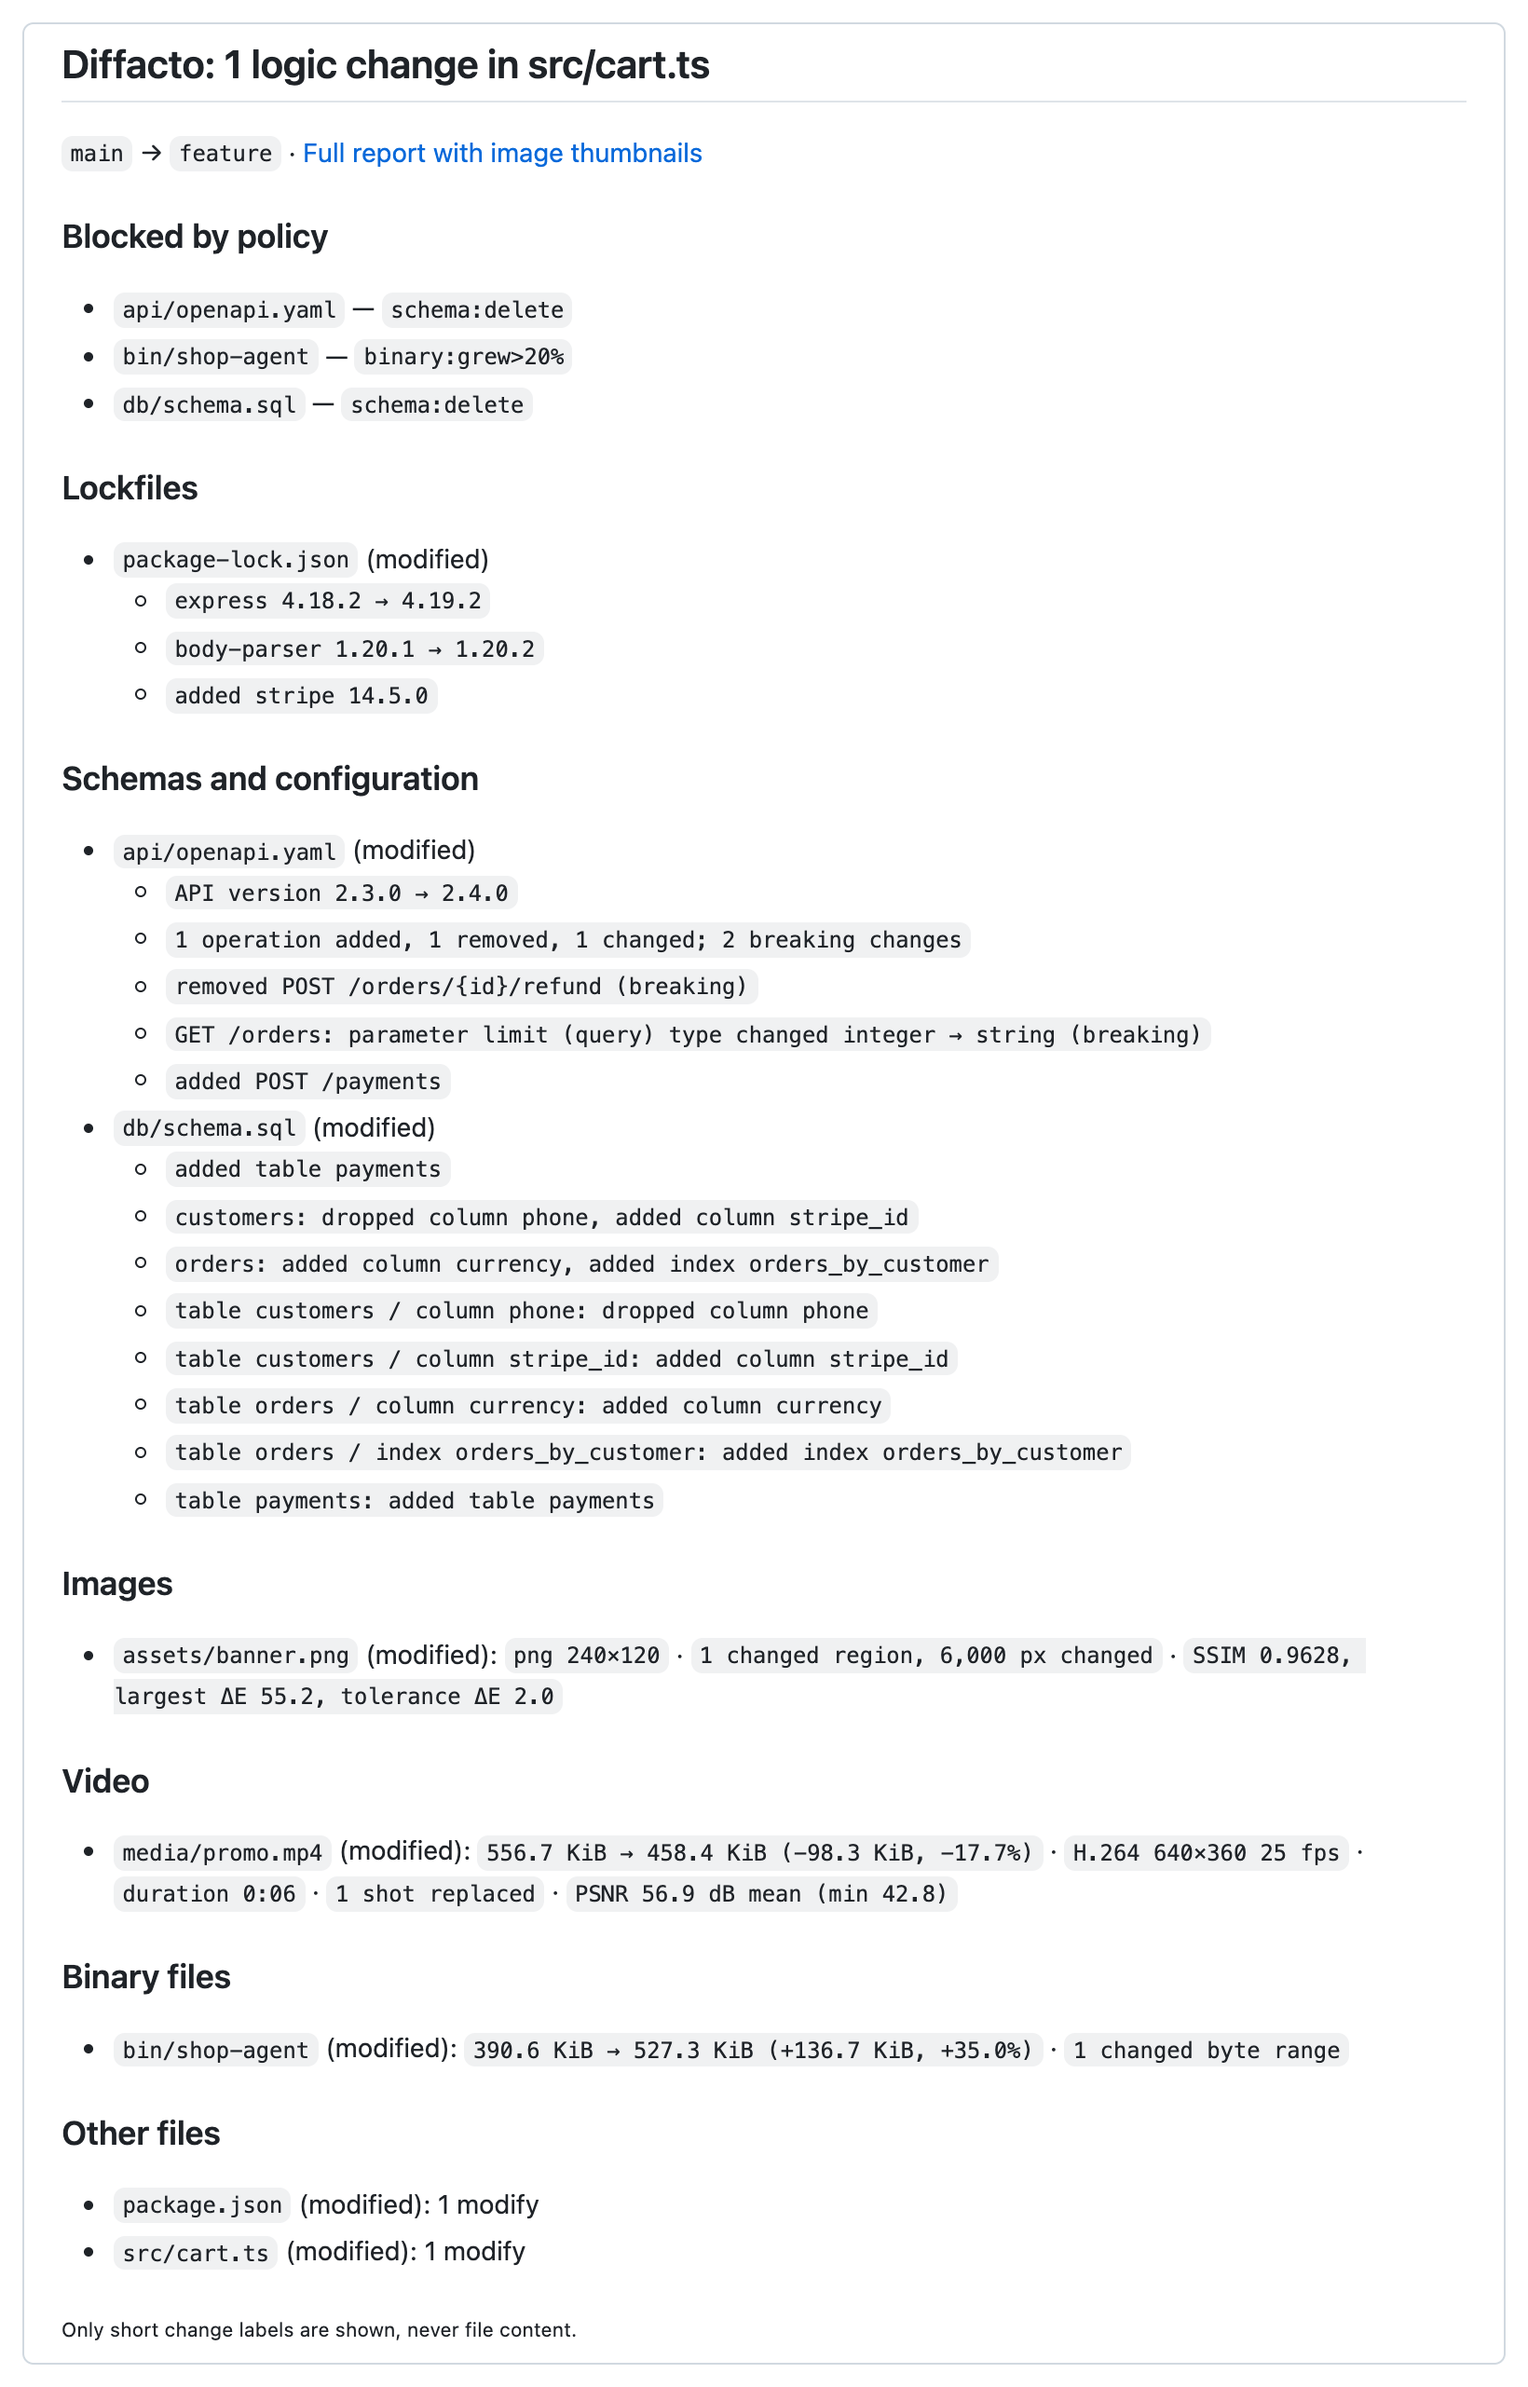
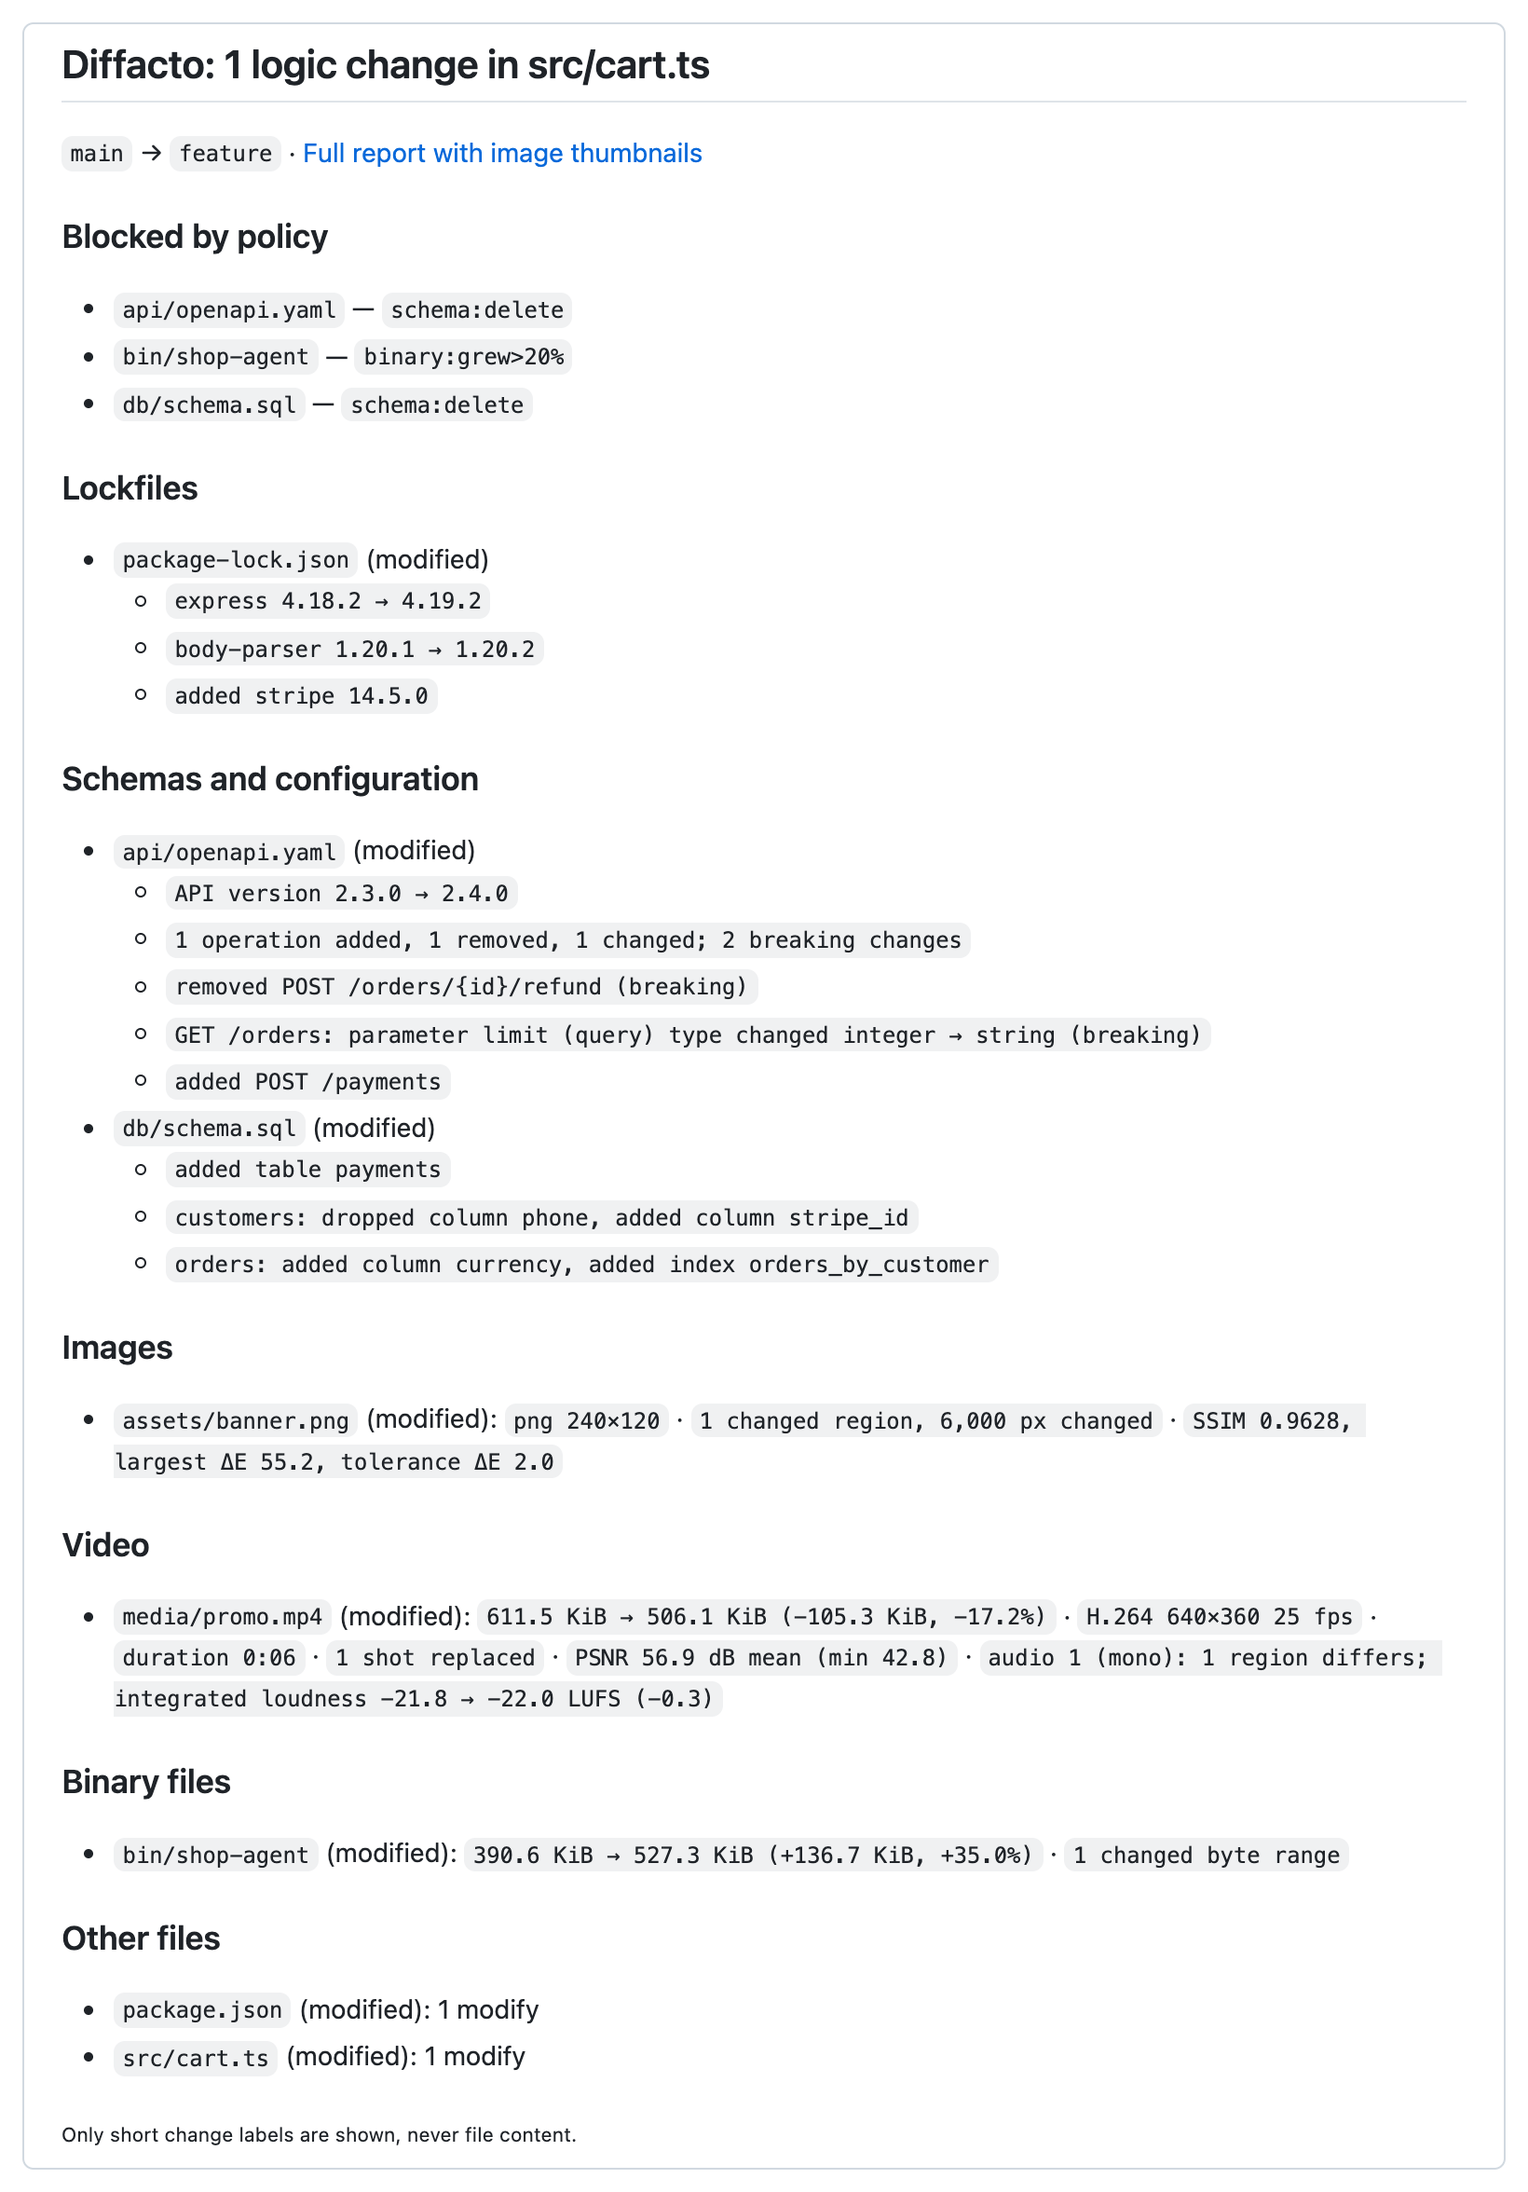
Show the comment as the next release writes it: each schema change once, and the video's muted second as one region

diff --git a/README.md b/README.md
@@ -28,7 +28,7 @@ It runs on Linux (x64 and arm64, built for Ubuntu 24.04) and on macOS with Apple
 
 ## What it looks like
 
-These pictures are real output from a sample pull request. It updates two npm packages and adds a third, removes an API endpoint, drops a database column, recolors part of a picture, blacks out a second of a video, and makes a program file bigger. The job ran with one rule set:
+These pictures are real output from a sample pull request. It updates two npm packages and adds a third, removes an API endpoint, drops a database column, recolors part of a picture, blacks out and mutes a second of a video, and makes a program file bigger. The job ran with one rule set:
 
 ```yaml
       - uses: chauduyphanvu/diffacto-action@v1
@@ -40,7 +40,7 @@ These pictures are real output from a sample pull request. It updates two npm pa
 
 <picture>
   <source media="(prefers-color-scheme: dark)" srcset="docs/comment-dark.png">
-  <img src="docs/comment-light.png" width="820" alt="The pull request comment. Blocked by policy: api/openapi.yaml and db/schema.sql (schema:delete), bin/shop-agent (binary:grew>20%). Then each changed file by kind: the lockfile's version changes, the API's breaking changes, the dropped and added columns, the picture's changed region, the video's replaced shot, the program file's growth.">
+  <img src="docs/comment-light.png" width="820" alt="The pull request comment. Blocked by policy: api/openapi.yaml and db/schema.sql (schema:delete), bin/shop-agent (binary:grew>20%). Then each changed file by kind: the lockfile's version changes, the API's breaking changes, the dropped and added columns, the picture's changed region, the video's replaced shot and changed sound, the program file's growth.">
 </picture>
 
 A new push updates the same comment instead of adding another. The job's summary page shows the summary too.
